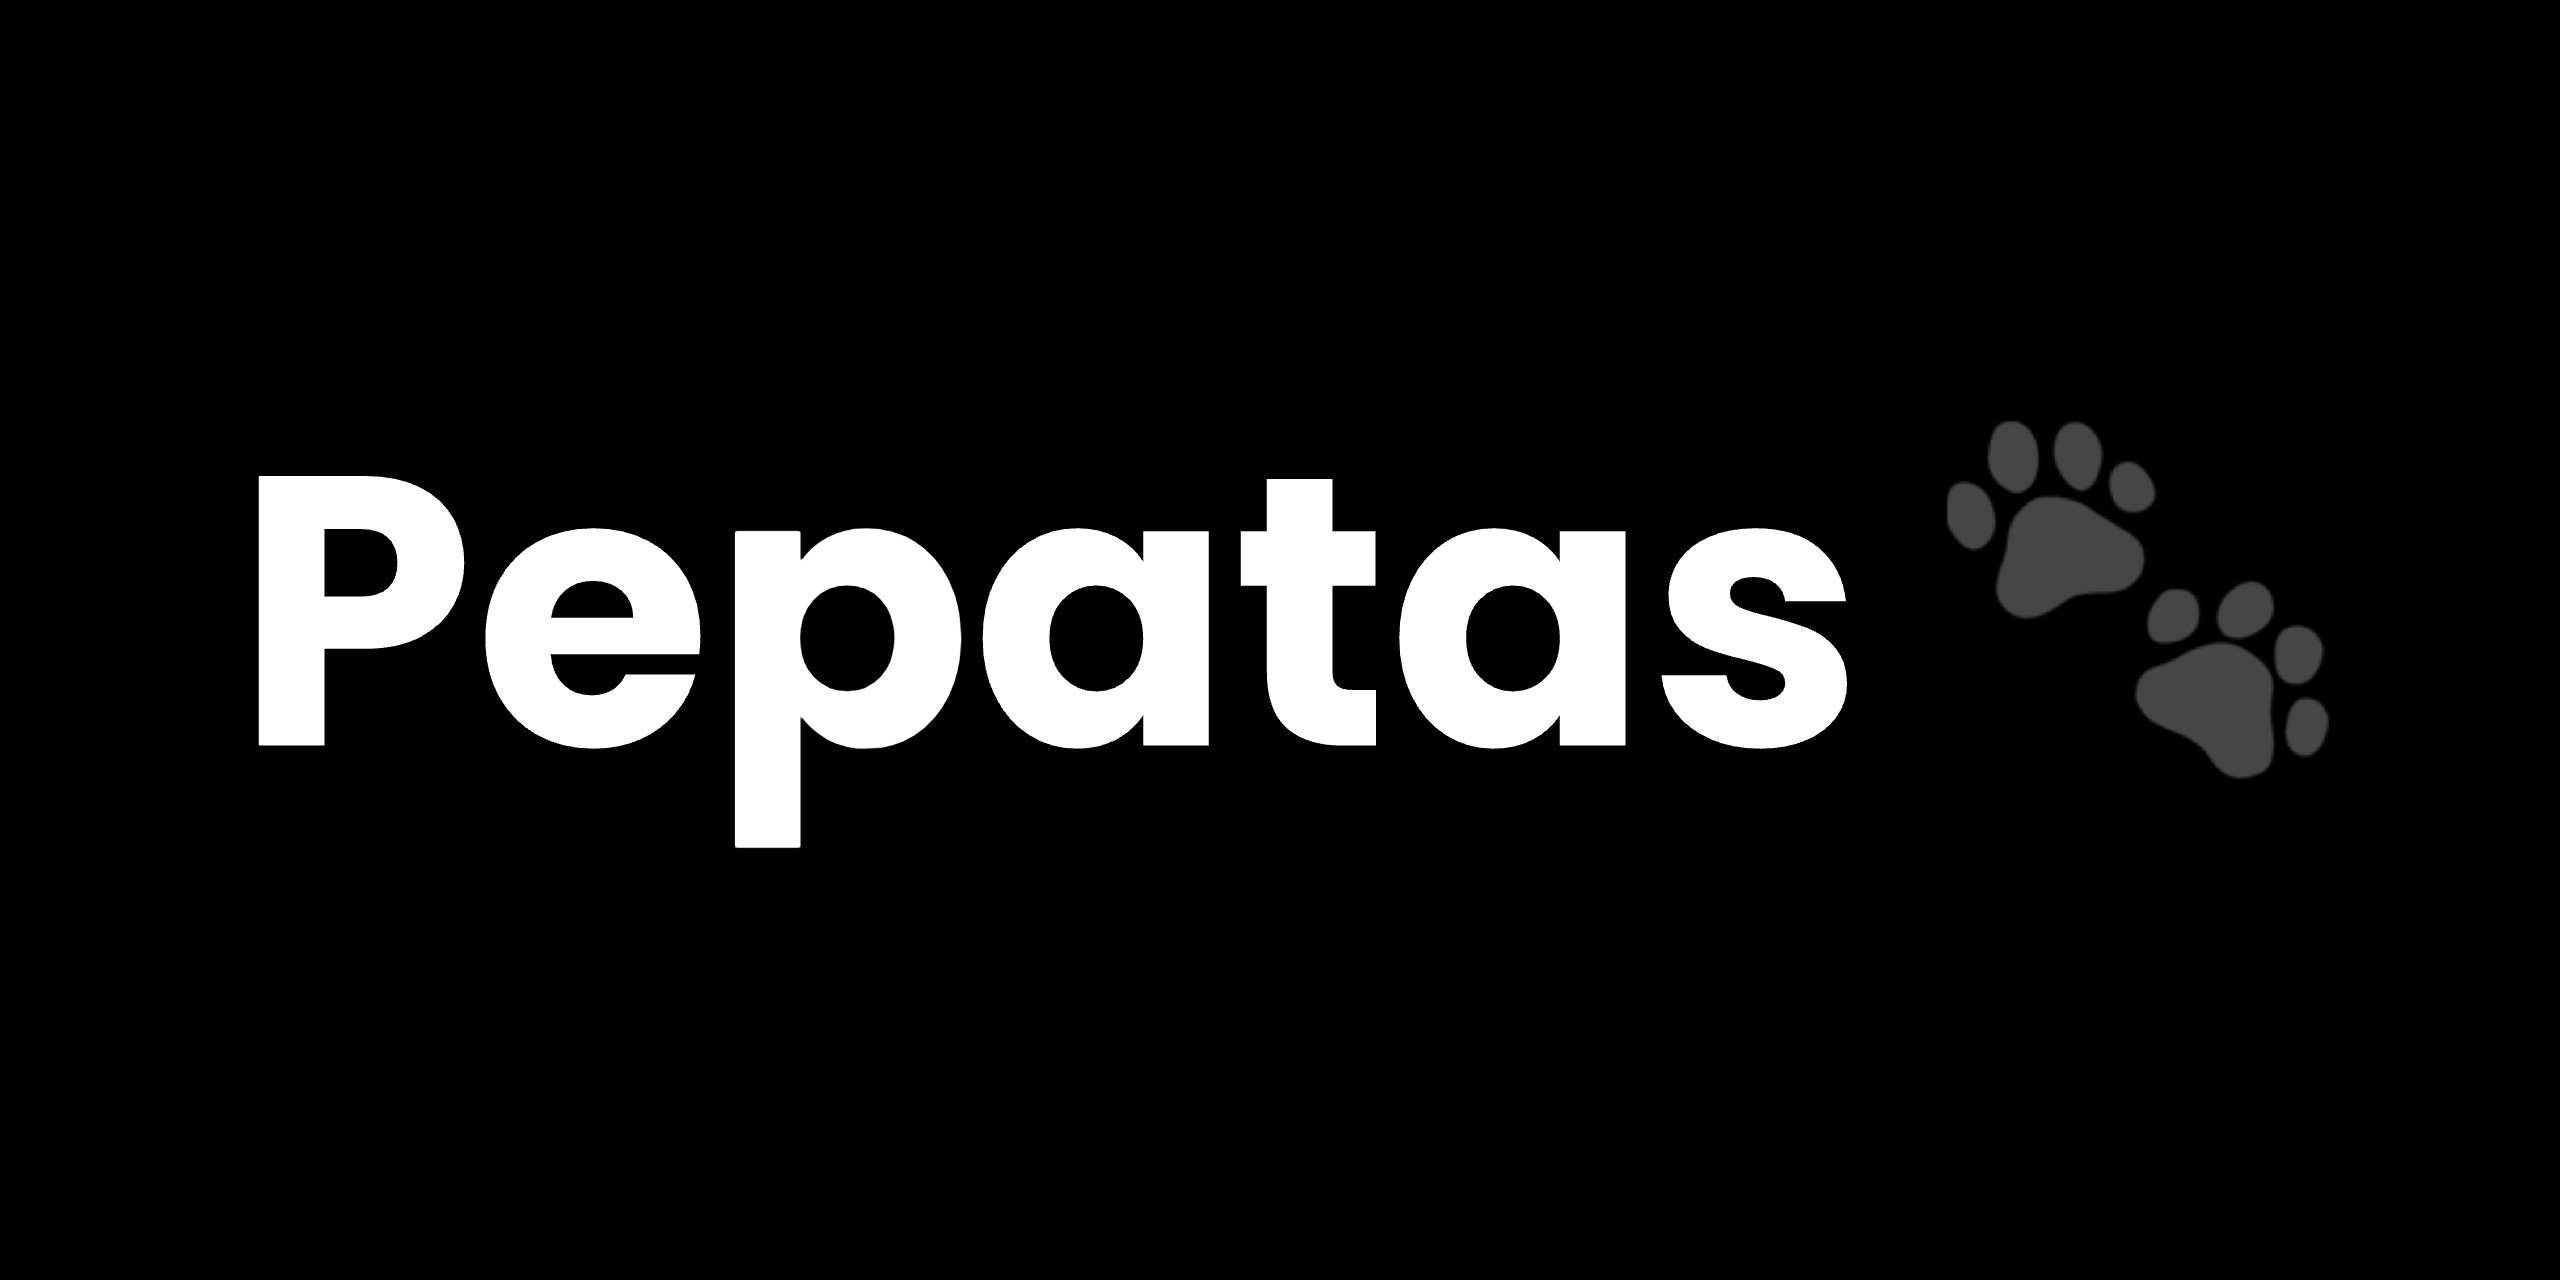
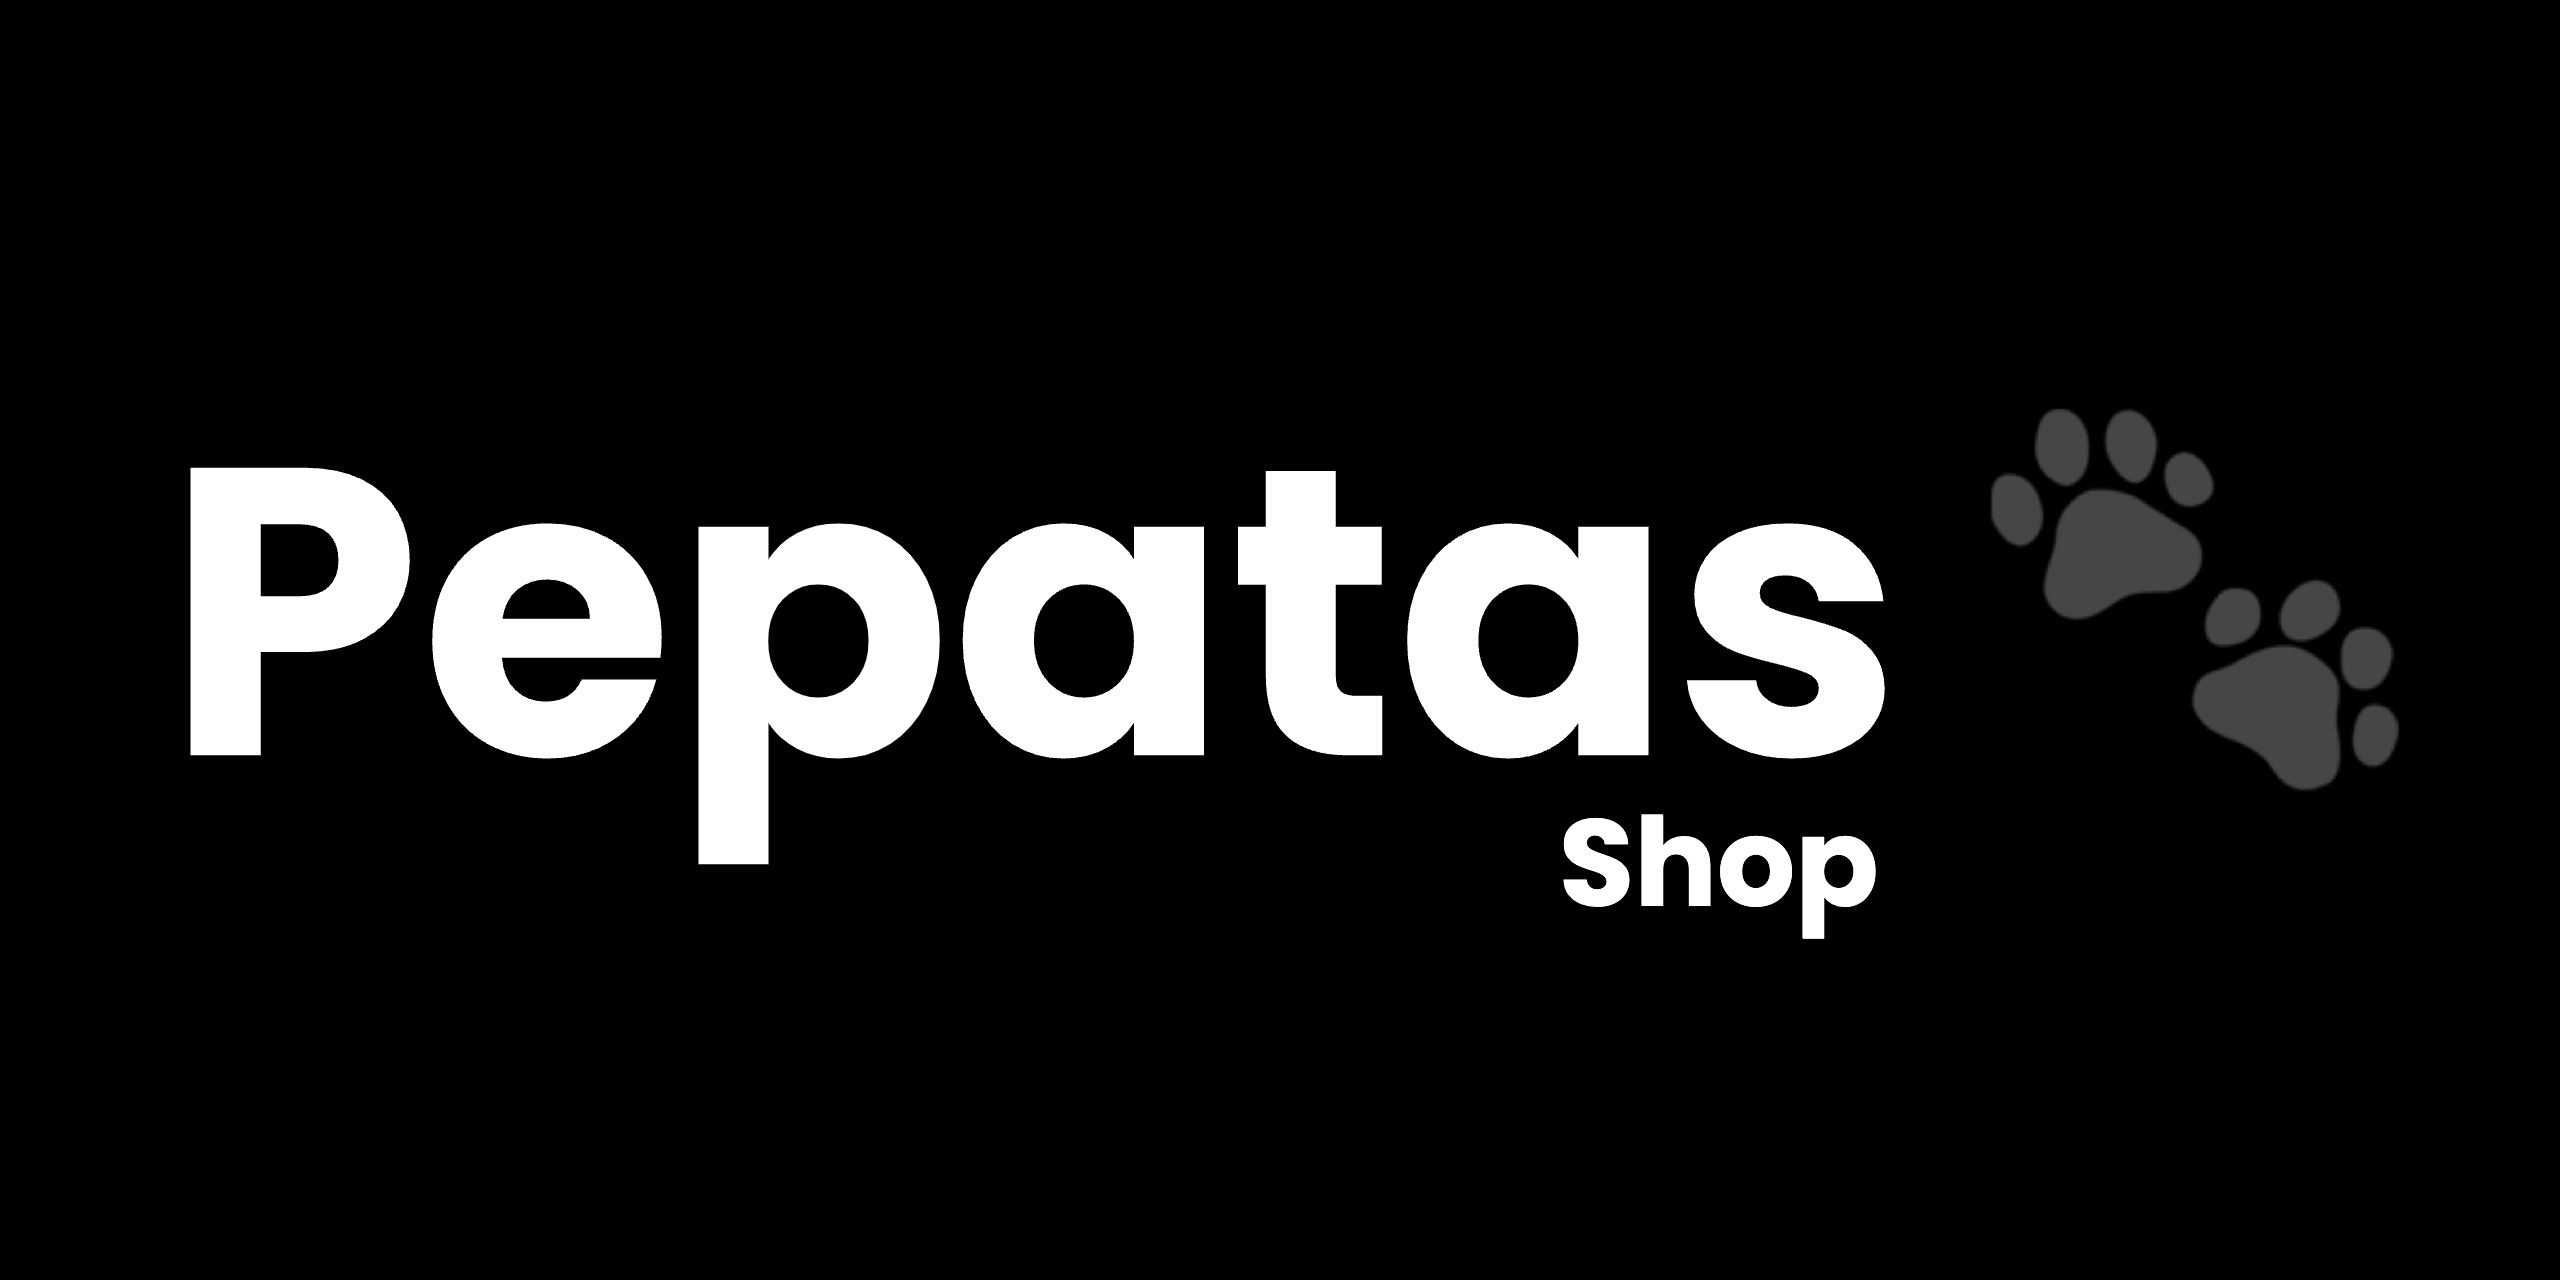
fix: change from "Pepatas" to "Pepatas Shop"

diff --git a/index.html b/index.html
@@ -3,9 +3,9 @@
   <head>
     <meta charset="UTF-8" />
     <meta name="viewport" content="width=device-width, initial-scale=1.0" />
-    <title>Pepatas | O melhor lugar pro seu pet chegará em breve!</title>
-    <meta content="Pepatas" property="og:title" />
-    <meta content="Pepatas" property="og:site_name" />
+    <title>Pepatas Shop | O melhor lugar pro seu pet chegará em breve!</title>
+    <meta content="Pepatas Shop" property="og:title" />
+    <meta content="Pepatas Shop" property="og:site_name" />
     <meta
       content="O melhor lugar pro seu pet chegará em breve!"
       name="description"
@@ -19,7 +19,7 @@
     <meta content="1280" property="og:image:width" />
     <meta content="640" property="og:image:height" />
     <meta
-      content="Pepatas escrito em branco com um emoji de patas de um animal"
+      content="Pepatas Shop escrito em branco com um emoji de patas de um animal"
       property="og:image:alt"
     />
     <link href="https://pepatas.com" rel="canonical" />
@@ -27,7 +27,7 @@
     <meta content="website" property="og:type" />
     <meta content="en" property="og:locale" />
     <meta content="summary_large_image" name="twitter:card" />
-    <meta content="@pepatas.com" name="twitter:creator" />
+    <meta content="@pepatas_shop" name="twitter:creator" />
     <meta content="width=device-width, initial-scale=1" name="viewport" />
     <link
       rel="icon"
@@ -49,35 +49,36 @@
     <div class="page-container">
       <h1>
         Pepatas
+        <small>Shop</small>
         <span role="img" aria-label="Emoji de patas de um animal">🐾</span>
       </h1>
       <p>O melhor lugar pro seu pet chegará em breve!</p>
       <div class="social-icons">
         <a
-          href="https://www.instagram.com/pepatas.com"
+          href="https://www.instagram.com/pepatas.shop"
           target="_blank"
-          title="Instagram @pepatas.com"
+          title="Instagram @pepatas.shop"
         >
           <i class="fa-brands fa-instagram"></i>
         </a>
         <a
-          href="https://www.tiktok.com/@pepatas.com"
+          href="https://www.tiktok.com/@pepatas.shop"
           target="_blank"
-          title="TikTok @pepatas.com"
+          title="TikTok @pepatas.shop"
         >
           <i class="fa-brands fa-tiktok"></i>
         </a>
         <a
-          href="https://www.youtube.com/@pepatas.com"
+          href="https://www.youtube.com/@pepatas_shop"
           target="_blank"
-          title="YouTube @pepatas.com"
+          title="YouTube @pepatas_shop"
         >
           <i class="fa-brands fa-youtube"></i>
         </a>
         <a
-          href="https://x.com/pepatas.com"
+          href="https://x.com/pepatas_shop"
           target="_blank"
-          title="Twitter @pepatas.com"
+          title="X (Twitter) @pepatas_shop"
         >
           <i class="fa-brands fa-x-twitter"></i>
         </a>

diff --git a/styles.css b/styles.css
@@ -31,10 +31,19 @@ h1 {
   font-size: 3.2em;
   line-height: 1.2;
   font-weight: 700;
+  position: relative;
+  display: inline-block;
 }
 
 h1 span {
   font-size: 1em;
+}
+
+h1 small {
+  position: absolute;
+  right: 65px;
+  bottom: -10px;
+  font-size: 0.3em;
 }
 
 p {

diff --git a/README.md b/README.md
@@ -1,3 +1,3 @@
-# Pepatas 🐾
+# Pepatas Shop 🐾
 
 Coming Soon Page for [pepatas.com](https://pepatas.com).
